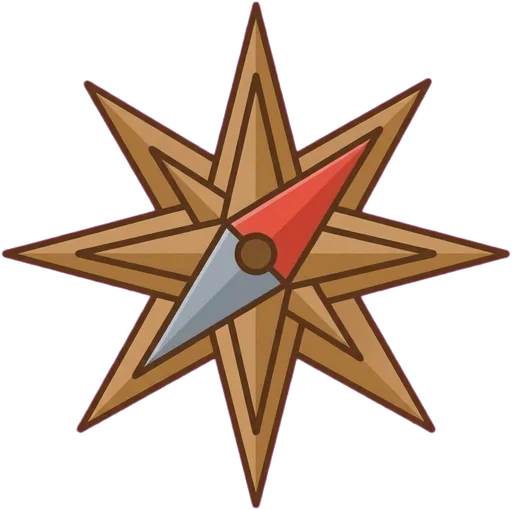
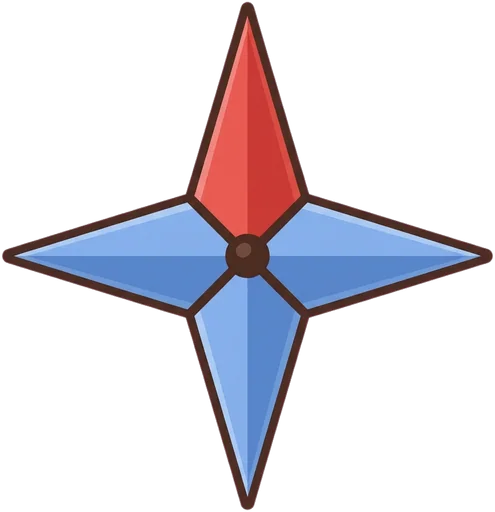
feat(map): four-point rose at a random heading, world badge shown alone with a smooth rise, one lift hover for island buttons
Claude-Session: https://claude.ai/code/session_01MAZwqXWNx83oEW6jeXcxjm

diff --git a/src/styles.css b/src/styles.css
@@ -753,7 +753,6 @@ input:focus, select:focus, textarea:focus { border-color: var(--brand); outline:
   background: radial-gradient(circle at 35% 30%, #fff, #e6eaef 75%); color: var(--ink); box-shadow: inset 0 0 0 3px #a3abb5, 0 2px 4px rgba(40, 30, 20, 0.2); }
 .world-kb-btn img { width: 82%; height: auto; max-height: 82%; object-fit: contain; }
 .world-kb-btn .icon { width: 24px; height: 24px; }
-.world-kb-btn:hover { box-shadow: inset 0 0 0 3px var(--brand), 0 2px 4px rgba(40, 30, 20, 0.2); }
 .world-kb-btn:focus-visible { outline: 3px solid var(--brand); outline-offset: 2px; }
 .island h3 { font-size: 1.1rem; margin: var(--sp-2) 0; }
 .level-row { display: flex; gap: 0.4rem; justify-content: center; flex-wrap: wrap; }
@@ -836,14 +835,20 @@ input:focus, select:focus, textarea:focus { border-color: var(--brand); outline:
 .badge-show-halo { position: absolute; inset: 20%; border-radius: 50%; background: radial-gradient(circle, rgba(255, 248, 210, 0.95), rgba(255, 196, 80, 0.5) 42%, transparent 70%); animation: halo-pulse 2.4s ease-in-out infinite; }
 .badge-show .sparkles i { width: 18px; height: 18px; margin: -9px 0 0 -9px; }
 .badge-show .badge { width: 46%; height: auto; aspect-ratio: 1; box-shadow: inset 0 0 0 10px var(--ring), 0 12px 30px rgba(0, 0, 0, 0.5), 0 0 50px rgba(255, 220, 120, 0.75);
-  animation: badge-rise 1.1s cubic-bezier(0.2, 1.3, 0.4, 1) both; }
+  animation: badge-rise 1.6s cubic-bezier(0.22, 1, 0.36, 1) both; }
 .badge-show-award { position: absolute; right: 22%; bottom: 20%; width: 22%; aspect-ratio: 1; object-fit: contain; filter: drop-shadow(0 4px 10px rgba(0, 0, 0, 0.55)); animation: star-in 0.6s 1s both; }
 .badge-show-caption { margin: 0; display: flex; flex-direction: column; align-items: center; text-align: center; font-size: clamp(1.2rem, 3vw, 1.7rem); text-shadow: 0 2px 8px rgba(0, 0, 0, 0.6); animation: text-in 0.5s 1.1s both; }
 .badge-show-caption span { font-size: 0.75em; opacity: 0.85; }
 @keyframes rays-in { from { scale: 0.2; opacity: 0; } }
 @keyframes rays-spin { to { rotate: 360deg; } }
 @keyframes halo-pulse { 0%, 100% { scale: 1; opacity: 0.85; } 50% { scale: 1.15; opacity: 1; } }
-@keyframes badge-rise { 0% { transform: translateY(40%) scale(0.2) rotate(-200deg); opacity: 0; } 70% { transform: scale(1.12) rotate(8deg); opacity: 1; } 100% { transform: none; } }
+/* One smooth rise: the same transform list in every frame (no jump between forms), easing out into a small overshoot, then gently back. */
+@keyframes badge-rise {
+  0% { transform: translateY(40%) scale(0.2) rotate(-200deg); opacity: 0; }
+  30% { opacity: 1; }
+  70% { transform: translateY(0) scale(1.05) rotate(6deg); animation-timing-function: ease-in-out; }
+  100% { transform: translateY(0) scale(1) rotate(0deg); opacity: 1; }
+}
 .stats-hero { display: flex; flex-direction: column; align-items: center; gap: 0.3rem; flex: none; }
 .stats-hero .aro-perch { margin-top: calc(var(--p) * 0.82 + 1.4rem); }
 /* Peeking under the results: the last frame of the game without the card and its dimming; a click brings them back. */
@@ -1313,10 +1318,12 @@ body:not(.gfx-simple) .level-screen.covered :is(.stage-wrap *, .overlay .tapko-s
 .badge.small.none { box-shadow: inset 0 0 0 2px var(--line); }
 .badge.small .badge-num { font-size: 1rem; }
 /* The island's corners: the world badge top right (a click shows it big), the hero's journey badge bottom right (a click starts it). */
-.world-badge-btn { position: absolute; top: 0; right: 0; z-index: 1; padding: 0; border: 0; border-radius: 50%; background: none; cursor: pointer; display: grid; transition: transform 0.15s; }
-.world-badge-btn:hover, .journey-badge:not(:disabled):hover { transform: scale(1.08); }
+.world-badge-btn { position: absolute; top: 0; right: 0; z-index: 1; padding: 0; border: 0; border-radius: 50%; background: none; cursor: pointer; display: grid; }
+/* The four buttons in an island's corners (surprises, world badge, keyboard, hero's journey) share one hover: a gentle lift. */
+.surprises-mark, .world-badge-btn, .world-kb-btn, .journey-badge { transition: translate 0.2s ease-out, filter 0.2s ease-out; }
+.surprises-mark:hover, .world-badge-btn:hover, .world-kb-btn:hover, .journey-badge:not(:disabled):hover { translate: 0 -3px; filter: drop-shadow(0 3px 3px rgba(40, 30, 20, 0.25)); }
 .world-badge-btn:focus-visible, .journey-badge:focus-visible { outline: 3px solid var(--brand); outline-offset: 2px; }
-.journey-badge { position: absolute; bottom: 0; right: 0; z-index: 1; padding: 0; border: 0; cursor: pointer; transition: transform 0.15s; }
+.journey-badge { position: absolute; bottom: 0; right: 0; z-index: 1; padding: 0; border: 0; cursor: pointer; }
 /* The journey badge's ring by its best stars: none white-grey, 1 grey, 2 pink, 3 light blue, 4 light green, 5 golden yellow. */
 .journey-badge { --c: #f3efe8; background: radial-gradient(circle at 35% 30%, #fff, var(--c) 75%); }
 .journey-badge.stars-0 { --ring: #dcd8d2; }

diff --git a/src/ui/badge-show.ts b/src/ui/badge-show.ts
@@ -1,4 +1,3 @@
-import { app } from '../app/app';
 import { audio } from '../audio/audio';
 import { imageUrl } from '../gfx/assets';
 import { WORLDS, worldName } from '../game/levels';
@@ -17,16 +16,14 @@ const SHOW_S = 10;
 const pick = <T>(list: readonly T[]): T => list[Math.floor(Math.random() * list.length)];
 
 /**
- * The screen goes dark and a world's badge rises in rotating rays and a glow, a range award landing
- * on its rim. On the map a click on an island's badge shows that badge, with the world's own award
- * when it was found; just for fun (a secret word on My progress) a random badge in a random tier
- * with a random award. A click, Esc or ten seconds put it away.
+ * The screen goes dark and a world's badge rises in rotating rays and a glow. On the map a click on an
+ * island's badge shows that badge alone; just for fun (a secret word on My progress) a random badge
+ * in a random tier with a random range award landing on its rim. A click, Esc or ten seconds put it away.
  */
 export function badgeShow(chosen?: { world: number; tier: BadgeTier }): void {
   const world = chosen?.world ?? pick(WORLDS.map((_, i) => i));
   const tier = chosen?.tier ?? pick(TIERS);
-  const found = app.profile?.progress.rangeFinds ?? [];
-  const thing = chosen ? WORLD_THINGS.find((th) => th.world === world && found.includes(th.id)) : pick(WORLD_THINGS);
+  const thing = chosen ? null : pick(WORLD_THINGS);
   const award = thing ? imageUrl(thing.pics[0]) : null;
   const title = t('badge.aria', { world: worldName(world), tier: t(`badge.${tier}`) });
   const awardName = thing ? t(`aim.things.${thing.id}.name`) : '';

diff --git a/src/screens/map.ts b/src/screens/map.ts
@@ -322,7 +322,7 @@ function journeyBadge(p: Profile, story: StoryDef): HTMLElement {
   const stars = p.progress.levels[journeyId(story)] ?? 0;
   const name = `${t('journey.title')}${stars ? `, ${t('map.starsAria', { n: stars })}` : ''}`;
   const rose = compassElement('journey-compass', ROSE);
-  if (open) swing(rose);
+  swing(rose, open);
   return h('button', {
     class: `journey-badge badge small stars-${stars} ${open ? '' : 'closed'}`, type: 'button', disabled: !open,
     'aria-label': name, tip: journeyTip(open, stars),
@@ -348,10 +348,11 @@ function swingShare(s: number): number {
   return spring(s) + (1 - spring(SWING_S)) * (s / SWING_S);
 }
 
-/** Turns `el` like a compass needle: every 10 to 30 s to a random heading, settling there with a smooth swing. */
-function swing(el: HTMLElement): void {
-  if (reduceMotion()) return;
-  let at = 0;
+/** Turns `el` like a compass needle: a random heading when the map opens, then every 10 to 30 s another one, settling there with a smooth swing. */
+function swing(el: HTMLElement, open: boolean): void {
+  let at = Math.random() * 360;
+  el.style.transform = `rotate(${at}deg)`;
+  if (!open || reduceMotion()) return;
   const later = () => window.setTimeout(turn, 10_000 + Math.random() * 20_000);
   const turn = () => {
     if (!el.isConnected) return;

diff --git a/assets-src/PROMPTS.md b/assets-src/PROMPTS.md
@@ -661,12 +661,12 @@ Cute, soft 2D children's game icon, flat vector style with gentle gradients, sof
 Same style and colours, but much simpler so it reads at 40 pixels inside a small round badge: a compact, almost square keyboard (only a little wider than tall), seen gently from above and a little from the side, with only two rows of three big chunky rounded keys (mint, sky blue, butter yellow, peach) and one big wide space bar below them. Thick soft dark-brown outline, big simple shapes, no small details. Keys empty, no letters. Background: one perfectly flat solid pure magenta color (#FF00FF), no gradient, no shadow. Square image.
 ```
 
-### ui-journey-rose.jpg (the hero's journey's badge on the map: the compass rose without its case, the badge's ring is round; turned by the game now and then; 2026-11-07)
-Attach `obj-aim-compass.jpg`. The first picture was right.
+### ui-journey-rose.jpg (the hero's journey's badge on the map: a simple four-point compass rose, the badge's ring is round; turned by the game; 2026-11-07)
+A new picture, nothing attached. The first prompt ("only four long pointed star points ..., nothing between them") still came with four small diagonal points; this one, saying the diagonals are empty, was right.
 ```
-Generate an image: Compass rose
+Generate an image: Four-point compass star
 
-Edit the attached picture (a round golden compass). Remove the whole round case completely: no golden ring, no rim, no cream round face, no circle of any kind around it. Keep only the compass rose itself and its needle, standing alone: four long brown points (#B07A45) to the four sides of the world and four shorter points between them, the big wide diamond needle turned 45 degrees, red #E5534B to the upper right and grey #9AA5B1 to the lower left, and the small dark-brown pin in the middle. Same soft children's storybook style, soft dark-brown outlines (not black), gentle gradients, bold simple shapes that stay readable when very small. Strictly front view, centered, the whole star shape visible, wide empty margin. No circle, no ring, no letters, no numbers, no face, no text, no watermark. Background: one perfectly flat solid pure magenta color (#FF00FF), no gradient, no shadow, no other objects. Square image.
+Cute, soft 2D children's game icon, flat vector style with gentle gradients, soft dark-brown outline (not black), bold simple shapes that stay readable when very small. A single icon: a simple four-pointed star shaped like a plus sign with sharp tips, exactly FOUR points in total: one up, one down, one left, one right. There is nothing at all in the diagonal directions: no small points, no rays, no second layer of points behind, only empty background between the four points. The top point is red #E5534B; the bottom, left and right points are soft blue #5B8DD6. Each point is split lengthwise into a lighter and a darker half. A small round dark-brown pin in the middle. Strictly front view, perfectly symmetrical, not tilted. No circle, no ring, no letters, no numbers, no face, no shadow. Centered, the whole shape visible, wide empty margin. No text, no watermark. Background: one perfectly flat solid pure magenta color (#FF00FF), no gradient, no shadow, no other objects. Square image.
 ```
 
 ### ui-keys-typed.jpg (letters typed in the last 14 days chip in the stats; a pile of pastel keys, one with a plus; the owner's picture 2026-10-23, replaced ui-key-star)

diff --git a/.specify/game/heros-journey.md b/.specify/game/heros-journey.md
@@ -5,9 +5,9 @@
   symbol is the **compass**.
 - On the map it is a **badge** at the bottom right of the picture of the story's last world (the
   island's corners: the surprises top left, the world badge top right, the keyboard bottom left): the
-  compass rose alone (no case: the badge's ring is round) in a ring coloured by the journey's best stars: not finished white-grey, 1 star grey, 2 pink,
-  3 light blue, 4 light green, 5 golden yellow. Like a compass needle the rose turns now and then
-  (every 10 to 30 s) to a random heading and settles there with a swing of about 3 s (not with
+  simple compass rose (four points, the north red, the others blue; no case: the badge's ring is round) in a ring coloured by the journey's best stars: not finished white-grey, 1 star grey, 2 pink,
+  3 light blue, 4 light green, 5 golden yellow. The rose points to a random heading when the map
+  opens; like a compass needle it turns now and then (every 10 to 30 s) to another one and settles there with a swing of about 3 s (not with
   reduced motion, not while closed). A click starts it. Its tooltip: before the first finish
   "Vitaj, hrdina, na tejto výprave, ktorá je dlhšia a náročnejšia a prevedie ťa všetkými svetmi tohto
   príbehu. Vstúp a začni toto posledné dobrodružstvo."; after it "Znovu sa stretávame! Dokázal si

diff --git a/.specify/game/story.md b/.specify/game/story.md
@@ -463,7 +463,7 @@ story stays playable in any browser ([mechanics](mechanics.md)).
   replay of any of its levels can bring one. The tier is the colour of its ring.
 - The end screen says "New badge!" or "Your badge is silver / gold now!" when a level
   earns or improves one. The badge sits in the top right corner of its world's picture on the map (a click shows it big
-  in the middle, in the badge show's rays and glow, with the world's range award once found), and
+  in the middle, in the badge show's rays and glow, the badge alone; it rises smoothly, without a jerk), and
   the progress view has a badge shelf of up to three rows without headings, gold, then silver,
   then bronze; a tier no world holds has no row, so the shelf stays short. The stars a tier needs
   live only in the badge's tooltip. With no badge at all the shelf shows a grey empty badge (a shield in a ring) and says "none yet"; worlds
